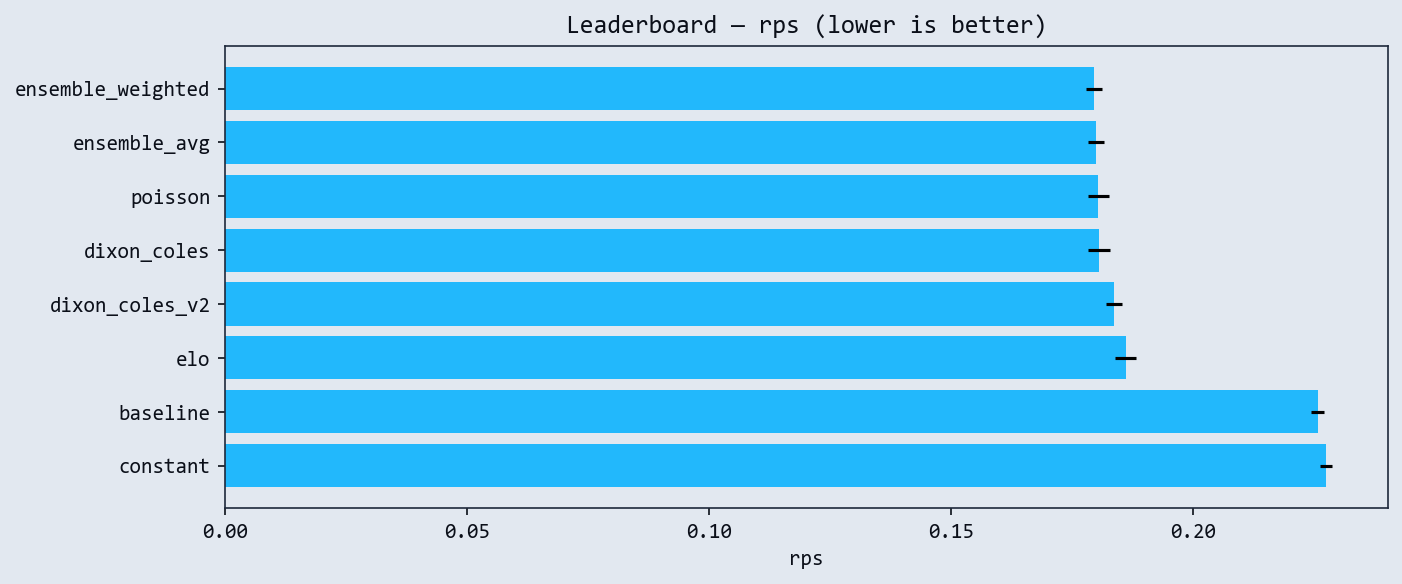
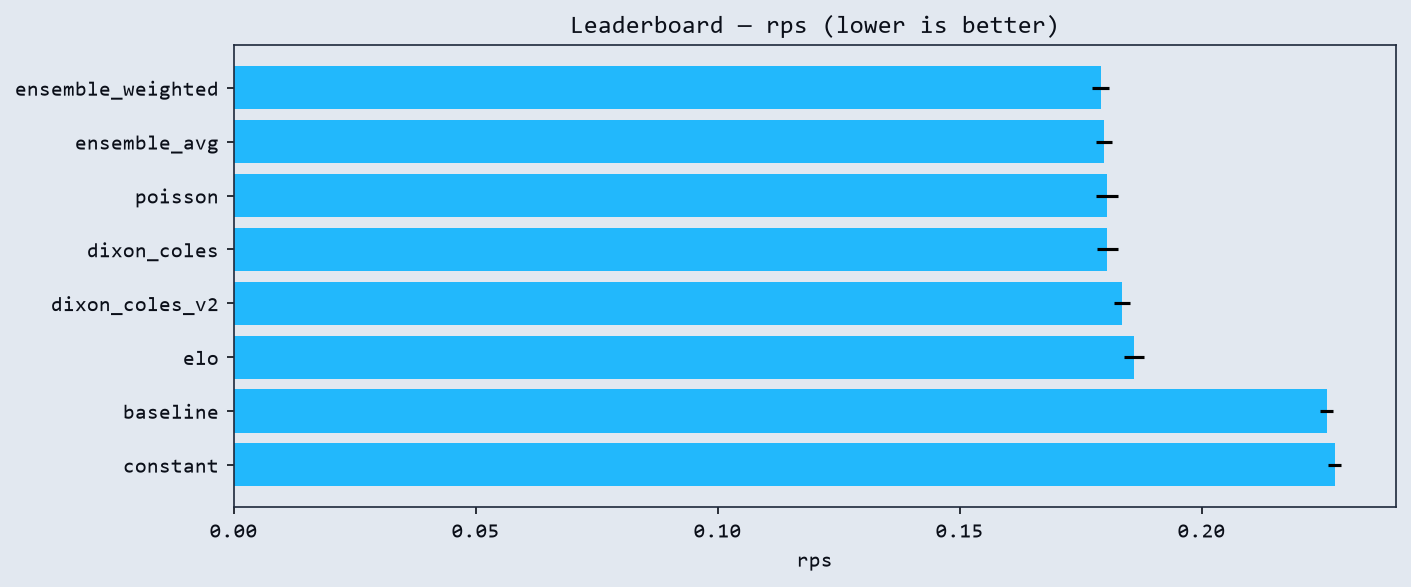
re-evaluation of dx_v2

Changed region(s): [[0.0, 0.0308, 1.0, 0.9247], [0.5521, 0.9247, 0.5827, 0.9863], [0.7974, 0.5856, 0.8281, 0.6164]]

diff --git a/reports/MODEL_SELECTION.md b/reports/MODEL_SELECTION.md
@@ -3,7 +3,7 @@
 **Criterion:** Lowest walk-forward RPS on common match set with acceptable calibration
 
 **Selected model:** `ensemble_weighted`
-**Walk-forward RPS:** 0.1795 (95% CI 0.1778–0.1811)
+**Walk-forward RPS:** 0.1791 (95% CI 0.1774–0.1808)
 
 ## Market benchmark
 
@@ -13,8 +13,8 @@ Market predictions not available for comparison.
 
 | Rank | Model | RPS | 95% CI | Accuracy (footnote) |
 |------|-------|-----|--------|---------------------|
-| 1 | `ensemble_weighted` | 0.1795 | [0.1778, 0.1811] | 58.9% |
-| 2 | `ensemble_avg` | 0.1800 | [0.1784, 0.1816] | 58.9% |
+| 1 | `ensemble_weighted` | 0.1791 | [0.1774, 0.1808] | 58.8% |
+| 2 | `ensemble_avg` | 0.1798 | [0.1781, 0.1814] | 58.8% |
 | 3 | `poisson` | 0.1805 | [0.1782, 0.1827] | 57.9% |
 | 4 | `dixon_coles` | 0.1806 | [0.1783, 0.1828] | 57.8% |
 | 5 | `dixon_coles_v2` | 0.1836 | [0.1819, 0.1852] | 58.1% |
